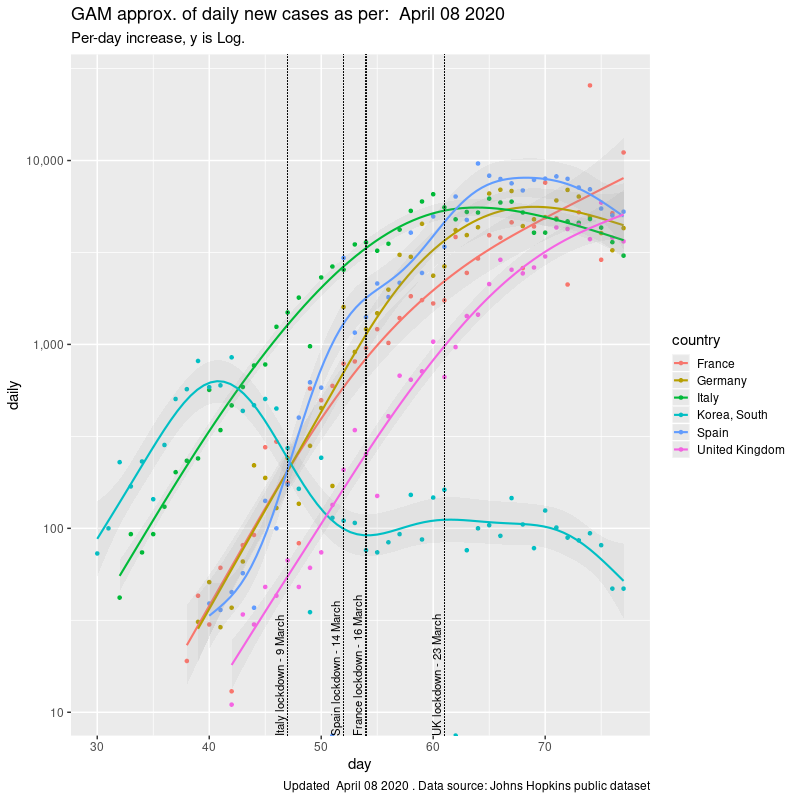
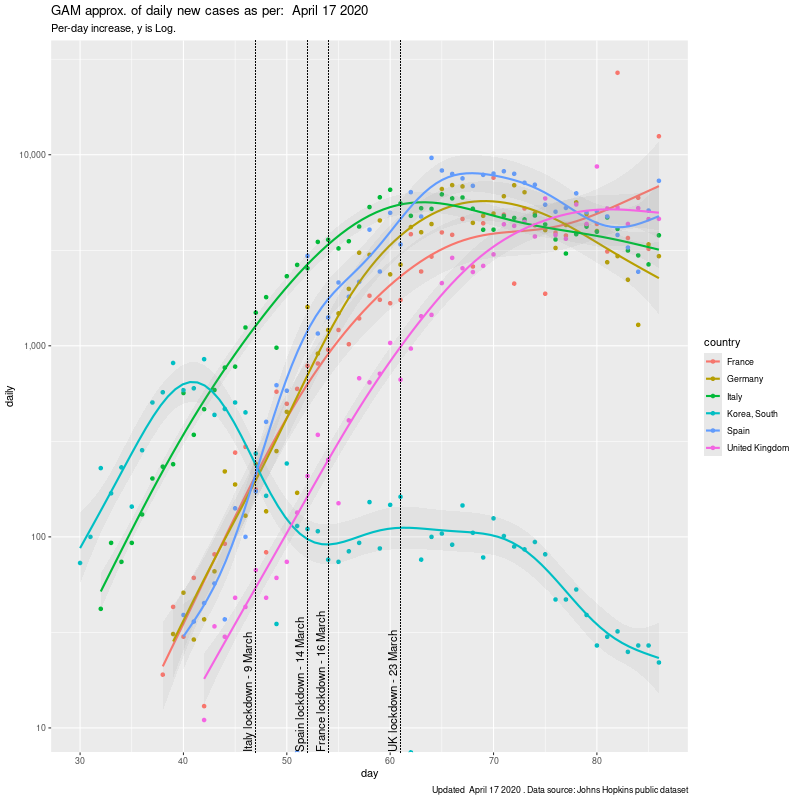
updates and added death count

diff --git a/README.md b/README.md
@@ -12,26 +12,25 @@ basic reference to non linear logistic models in R can be found at [datasciencep
 ## Descriptive statistics across countries. Total count and daily increase
 
 
-
-![alt text](https://github.com/artoo-git/covid-19/blob/master/images/Rplot06.png)
-
-
-
-As I write (26 of March) the daily growth of italy has been subexpoential for a few days. This *may* indicate that Italy is approaching the inflection point. 
-
-Below is the daily variation by country (new positive tests in one day). Again, *It seems* that the lockdown measures taken in Italy have started to see the first effects on the daily increase **but only 12 days after their implementation by the Italian Government.**
-
-Looking at the changes for Italy (both plots), one could speculate that the timings of the virus (incubation time, duration of disease) are so that any counter-measure taken by a goverment today will have a delayed effect of roughly two weeks (possibly less).
+Detected cases by country  |  Death-count by coutry
+:-------------------------:|:-------------------------:
+![alt text](https://github.com/artoo-git/covid-19/blob/master/images/Rplot06.png)  | ![alt text](https://github.com/artoo-git/covid-19/blob/master/images/Rplot06_D.png)
 
 
 
 
-![alt text](https://github.com/artoo-git/covid-19/blob/master/images/daycount.png)
+
+Looking at the changes in the rate for death and new cases (both plots), one could speculate that the timings of the virus (incubation time, duration of disease) are so that any counter-measure taken by a goverment today will have a delayed effect of roughly two weeks (possibly less).
+
+
+
+Daily detected cases by country  |  Daily death-count by coutry
+![alt text](https://github.com/artoo-git/covid-19/blob/master/images/daycount.png) | ![alt text](https://github.com/artoo-git/covid-19/blob/master/images/daycount_D.png)
 
 
 ## Extrapolations from the logistic model 
 
-[being reworked in a SIRD model] work in progress - contribute i you like
+[being reworked in a SIRD model] work in progress - contribute if you like
 
 
 
